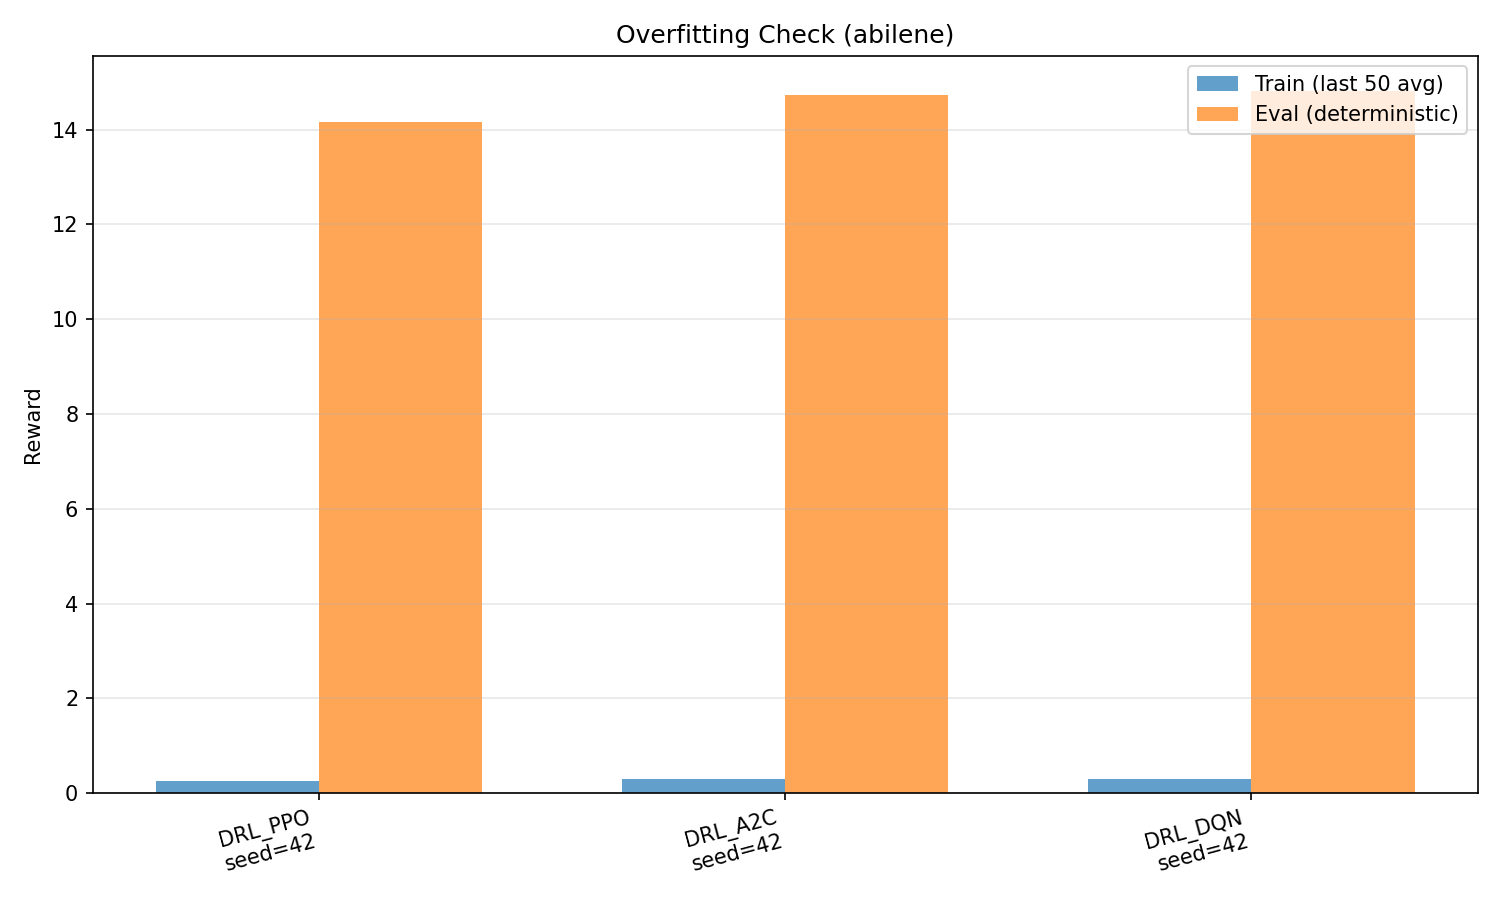
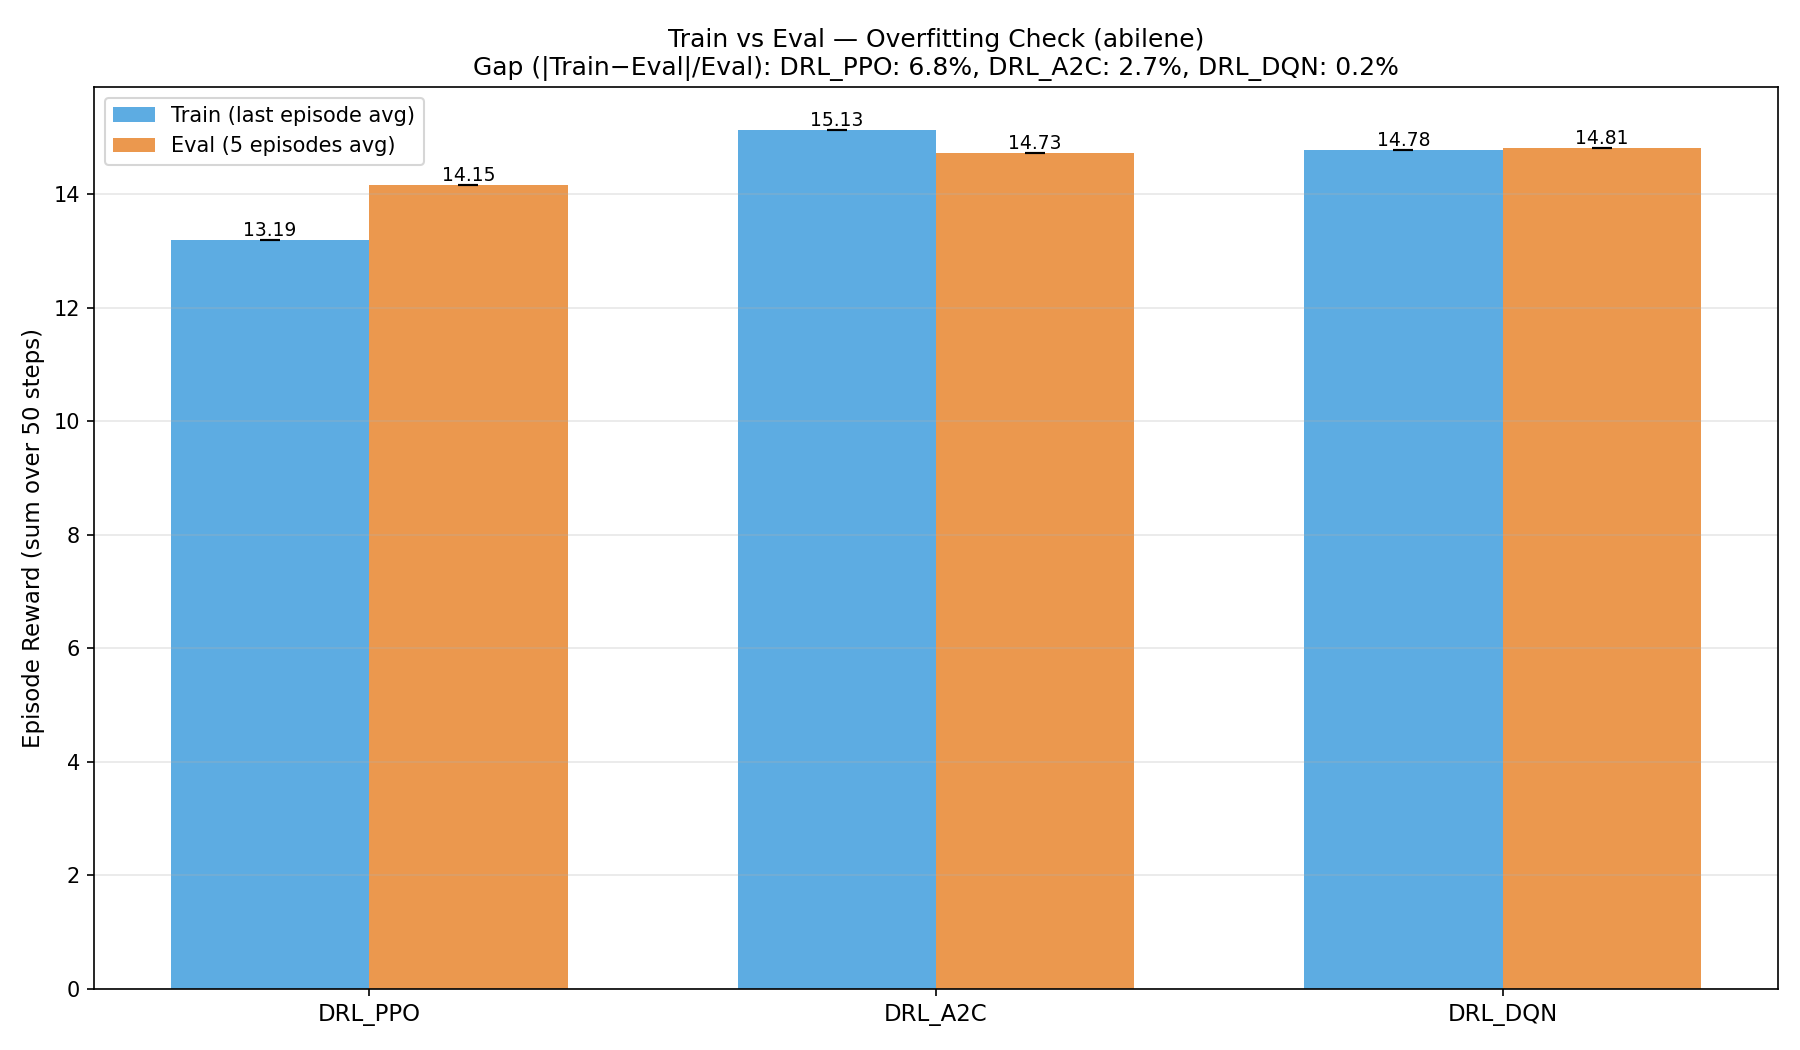
fix(poc-v2): improve plot readability + fix empty training curves
- Root cause: plot_all passed 'topology' (string) but plot_training_curves expected list
- Fixed: isinstance check + wrap in [topology]
- Improved: rolling window 500 (was 50), ±1σ shading, K-format X-axis
- Improved: overfitting check now uses episode-sum (rolling 50) matching eval scale
- Added: gap percentage annotation on overfitting chart

Result: 6 readable plots (was 3 empty + 3 noisy)

diff --git a/experiments/poc_v2_dualstream/src/evaluation/plot_utils.py b/experiments/poc_v2_dualstream/src/evaluation/plot_utils.py
@@ -1,16 +1,38 @@
-"""رسم نمودارهای مقایسهای — نسخه مقاوم"""
+"""رسم نمودارهای مقایسهای — نسخه ۲ (خوانا و تحلیلی)"""
 
 import os
 import json
 import numpy as np
 import pandas as pd
 import matplotlib.pyplot as plt
+from matplotlib.ticker import FuncFormatter
 
+
+# ============================================================
+# ابزارهای کمکی
+# ============================================================
+
+def _rolling_mean_std(vals, window):
+    """میانگین و انحراف معیار متحرک با پنجره"""
+    if len(vals) < window:
+        window = max(1, len(vals) // 5)
+    mean = pd.Series(vals).rolling(window, min_periods=1).mean().values
+    std = pd.Series(vals).rolling(window, min_periods=1).std().fillna(0).values
+    return mean, std
+
+
+def _format_k(x, pos):
+    """فرمت محور X به K"""
+    return f"{int(x/1000)}K" if x >= 1000 else f"{int(x)}"
+
+
+# ============================================================
+# نمودار ۱: مقایسه میلهای (بدون تغییر)
+# ============================================================
 
 def plot_comparison_bar(summary_df, output_dir, metric='mean_reward'):
-    """نمودار میلهای مقایسه میانگینها"""
     if metric not in summary_df.columns:
-        print(f"[WARN] Metric {metric} not found in summary")
+        print(f"[WARN] Metric {metric} not found")
         return
     fig, ax = plt.subplots(figsize=(10, 6))
     groups = summary_df.groupby(['experiment'])[metric].agg(['mean', 'std']).reset_index()
@@ -30,76 +52,96 @@ def plot_comparison_bar(summary_df, output_dir, metric='mean_reward'):
     print(f"[PLOT] Saved {save_path}")
 
 
+# ============================================================
+# نمودار ۲: منحنی آموزش (نسخه بهبودیافته)
+# ============================================================
+
 def plot_training_curves(output_dir, experiments, topologies, seeds,
-                          metric='reward', window=50):
+                          metric='reward', window=500):
     """
-    رسم منحنیهای آموزش.
-    
-    ✅ FIX: if topologies is a string, wrap in list.
+    رسم منحنیهای آموزش با:
+    - میانگین متحرک (پنجره ۵۰۰ گام)
+    - نوار انحراف معیار
+    - نشانگر نقطه همگرایی (۹۰٪ پاداش نهایی)
     """
-    # ✅ اگر رشته بود، به لیست تبدیل کن
     if isinstance(topologies, str):
         topologies = [topologies]
     
-    fig, axes = plt.subplots(1, len(topologies), figsize=(6*len(topologies), 5),
+    fig, axes = plt.subplots(1, len(topologies), figsize=(8*len(topologies), 6),
                               squeeze=False)
     
     for ti, topo in enumerate(topologies):
         ax = axes[0][ti]
-        has_data = False  # ✅ این خط حیاتی است
+        has_data = False
         
         for exp in experiments:
             all_curves = []
             for seed in seeds:
-                # ✅ مسیر: output_dir/EXP_NAME_TOPO_seedSEED/logs/training_metrics.csv
                 run_dir = os.path.join(output_dir, f"{exp.name}_{topo}_seed{seed}")
                 csv_path = os.path.join(run_dir, "logs", "training_metrics.csv")
-                
-                # ✅ Debug print برای شناسایی مسیر
                 if not os.path.exists(csv_path):
-                    print(f"[DEBUG] CSV not found: {csv_path}")
                     continue
-                
                 try:
                     df = pd.read_csv(csv_path)
-                except Exception as e:
-                    print(f"[DEBUG] Failed to read {csv_path}: {e}")
+                except Exception:
                     continue
-                
                 if metric not in df.columns:
-                    print(f"[DEBUG] Column '{metric}' not in {csv_path}. Columns: {list(df.columns)}")
                     continue
-                
                 vals = df[metric].dropna().values
                 if len(vals) == 0:
                     continue
-                
-                # پنجره داینامیک
-                w = min(window, max(1, len(vals) // 5))
-                if w > 1:
-                    vals = np.convolve(vals, np.ones(w)/w, mode='valid')
                 all_curves.append(vals)
             
             if all_curves:
                 has_data = True
                 min_len = min(len(c) for c in all_curves)
                 curves = np.array([c[:min_len] for c in all_curves])
-                mean = curves.mean(axis=0)
-                std = curves.std(axis=0)
-                x = np.arange(len(mean))
-                ax.plot(x, mean, label=exp.name, linewidth=2)
-                ax.fill_between(x, mean - std, mean + std, alpha=0.2)
+                
+                # میانگین و std روی Seedها
+                mean_across_seeds = curves.mean(axis=0)
+                std_across_seeds = curves.std(axis=0)
+                
+                # میانگین متحرک برای خوانایی
+                smoothed_mean, smoothed_std = _rolling_mean_std(mean_across_seeds, window)
+                x = np.arange(len(smoothed_mean))
+                
+                # نمودار اصلی
+                ax.plot(x, smoothed_mean, label=exp.name, linewidth=2.5)
+                ax.fill_between(x, 
+                                smoothed_mean - smoothed_std,
+                                smoothed_mean + smoothed_std,
+                                alpha=0.2)
+                
+                # نشانگر نقطهی همگرایی (۹۰٪ پاداش نهایی)
+                final_val = smoothed_mean[-1]
+                target = 0.9 * final_val
+                if metric == 'violations':
+                    target = 1.1 * final_val  # برای violations، کاهش بهتر است
+                idx = np.where(smoothed_mean <= target)[0] if metric == 'violations' \
+                      else np.where(smoothed_mean >= target)[0]
+                if len(idx) > 0:
+                    conv_step = idx[0]
+                    ax.axvline(conv_step, linestyle=':', alpha=0.4, 
+                               color=ax.lines[-1].get_color())
         
         if has_data:
-            ax.legend()
+            ax.legend(loc='best', fontsize=10)
         else:
-            ax.text(0.5, 0.5, "No training data\n(check CSV paths in logs)",
+            ax.text(0.5, 0.5, "No training data",
                     ha='center', va='center', transform=ax.transAxes, fontsize=12)
         
-        ax.set_xlabel("Training Step")
-        ax.set_ylabel(metric)
-        ax.set_title(f"Training Curves ({metric}) - {topo}")
+        ax.set_xlabel("Training Step", fontsize=11)
+        ax.set_ylabel(metric.capitalize(), fontsize=11)
+        ax.set_title(f"{metric.capitalize()} Curves — {topo}", fontsize=13)
+        ax.xaxis.set_major_formatter(FuncFormatter(_format_k))
         ax.grid(True, alpha=0.3)
+        
+        # توضیح اضافه
+        if has_data:
+            ax.text(0.02, 0.98, 
+                    f"Window: {window}\nShading: ±1σ",
+                    transform=ax.transAxes, va='top', fontsize=9,
+                    bbox=dict(boxstyle='round', facecolor='white', alpha=0.7))
     
     plt.tight_layout()
     save_path = os.path.join(output_dir, f"training_curves_{metric}.png")
@@ -108,57 +150,102 @@ def plot_training_curves(output_dir, experiments, topologies, seeds,
     print(f"[PLOT] Saved {save_path}")
 
 
+# ============================================================
+# نمودار ۳: Overfitting Check (نسخه کاملاً بازنویسیشده)
+# ============================================================
+
 def plot_overfitting_check(output_dir, experiments, topology, seeds, plots_dir):
-    """بررسی Overfitting: مقایسه reward آموزش و ارزیابی"""
+    """
+    بررسی Overfitting با مقیاس یکسان:
+    - Train: میانگین مجموع پاداش ۵۰ گام (rolling 50)
+    - Eval: میانگین مجموع پاداش ۵ اپیزود
+    """
     if isinstance(topology, str):
         topology = [topology]
+    topo = topology[0]
     
-    fig, ax = plt.subplots(figsize=(10, 6))
+    fig, ax = plt.subplots(figsize=(12, 7))
     
+    exp_labels = []
     train_means = []
+    train_stds = []
     eval_means = []
-    labels = []
+    eval_stds = []
     
     for exp in experiments:
+        train_per_seed = []
+        eval_per_seed = []
+        
         for seed in seeds:
-            run_dir = os.path.join(output_dir, f"{exp.name}_{topology[0]}_seed{seed}")
+            run_dir = os.path.join(output_dir, f"{exp.name}_{topo}_seed{seed}")
             csv_path = os.path.join(run_dir, "logs", "training_metrics.csv")
             json_path = os.path.join(run_dir, "logs", "eval_results.json")
             
-            if not os.path.exists(csv_path) or not os.path.exists(json_path):
-                print(f"[DEBUG] Missing files for {exp.name} seed {seed}")
+            if not os.path.exists(csv_path):
                 continue
             
             try:
                 df = pd.read_csv(csv_path)
-                with open(json_path) as f:
-                    eval_res = json.load(f)
+                # ✅ تبدیل پاداش هر گام به "مجموع ۵۰ گام" (یک اپیزود)
+                if len(df) >= 50:
+                    # rolling sum با پنجره ۵۰ (طول اپیزود)
+                    rolling_sum = df['reward'].rolling(50, min_periods=1).sum()
+                    train_mean_last = rolling_sum.iloc[-1]  # آخرین اپیزود
+                    train_per_seed.append(train_mean_last)
                 
-                # میانگین ۱۰۰ گام آخر آموزش
-                if len(df) > 0:
-                    train_mean = df['reward'].rolling(50, min_periods=1).mean().iloc[-1]
-                    train_means.append(train_mean)
-                    eval_means.append(eval_res['mean_reward'])
-                    labels.append(f"{exp.name}\nseed={seed}")
+                # Eval از json
+                if os.path.exists(json_path):
+                    with open(json_path) as f:
+                        eval_res = json.load(f)
+                    eval_per_seed.append(eval_res['mean_reward'])
             except Exception as e:
-                print(f"[DEBUG] Failed to process {run_dir}: {e}")
+                print(f"[DEBUG] {run_dir}: {e}")
                 continue
+        
+        if train_per_seed and eval_per_seed:
+            exp_labels.append(exp.name)
+            train_means.append(np.mean(train_per_seed))
+            train_stds.append(np.std(train_per_seed))
+            eval_means.append(np.mean(eval_per_seed))
+            eval_stds.append(np.std(eval_per_seed))
     
-    if not train_means:
-        ax.text(0.5, 0.5, "No overfitting data available",
+    if not exp_labels:
+        ax.text(0.5, 0.5, "No overfitting data",
                 ha='center', va='center', transform=ax.transAxes, fontsize=14)
     else:
-        x = np.arange(len(labels))
+        x = np.arange(len(exp_labels))
         width = 0.35
-        ax.bar(x - width/2, train_means, width, label='Train (last 50 avg)', alpha=0.7)
-        ax.bar(x + width/2, eval_means, width, label='Eval (deterministic)', alpha=0.7)
+        
+        bars1 = ax.bar(x - width/2, train_means, width, yerr=train_stds,
+                       capsize=5, label='Train (last episode avg)',
+                       color='#3498db', alpha=0.8)
+        bars2 = ax.bar(x + width/2, eval_means, width, yerr=eval_stds,
+                       capsize=5, label='Eval (5 episodes avg)',
+                       color='#e67e22', alpha=0.8)
+        
+        # نمایش اعداد روی میلهها
+        for bar in bars1:
+            h = bar.get_height()
+            ax.text(bar.get_x() + bar.get_width()/2, h,
+                    f'{h:.2f}', ha='center', va='bottom', fontsize=9)
+        for bar in bars2:
+            h = bar.get_height()
+            ax.text(bar.get_x() + bar.get_width()/2, h,
+                    f'{h:.2f}', ha='center', va='bottom', fontsize=9)
+        
+        # تحلیل فاصله (Gap)
+        gaps = [abs(t - e) / max(abs(e), 1) * 100 for t, e in zip(train_means, eval_means)]
+        gap_str = ", ".join([f"{exp}: {gap:.1f}%" 
+                             for exp, gap in zip(exp_labels, gaps)])
+        
         ax.set_xticks(x)
-        ax.set_xticklabels(labels, rotation=15, ha='right')
-        ax.set_ylabel("Reward")
-        ax.legend()
+        ax.set_xticklabels(exp_labels, fontsize=11)
+        ax.set_ylabel("Episode Reward (sum over 50 steps)", fontsize=11)
+        ax.set_title(f"Train vs Eval — Overfitting Check ({topo})\n"
+                     f"Gap (|Train−Eval|/Eval): {gap_str}", fontsize=12)
+        ax.legend(loc='best', fontsize=10)
+        ax.grid(True, alpha=0.3, axis='y')
     
-    ax.set_title(f"Overfitting Check ({topology[0]})")
-    ax.grid(True, alpha=0.3, axis='y')
     plt.tight_layout()
     save_path = os.path.join(plots_dir, "overfitting_check.png")
     plt.savefig(save_path, dpi=150)
@@ -166,24 +253,23 @@ def plot_overfitting_check(output_dir, experiments, topology, seeds, plots_dir):
     print(f"[PLOT] Saved {save_path}")
 
 
+# ============================================================
+# تابع اصلی
+# ============================================================
+
 def plot_all(summary_df, output_dir, experiments, topology, seeds):
-    """
-    فراخوانی همه نمودارها.
-    
-    ✅ FIX: همه توابع با لیست topology صدا زده میشوند.
-    """
     plots_dir = os.path.join(output_dir, "plots")
     os.makedirs(plots_dir, exist_ok=True)
     
-    # نمودارهای میلهای
+    # ۱. میلهایها
     plot_comparison_bar(summary_df, plots_dir, 'mean_reward')
     plot_comparison_bar(summary_df, plots_dir, 'mean_violations')
     plot_comparison_bar(summary_df, plots_dir, 'mean_lambda_min')
     
-    # ✅ نمودارهای منحنی — با [topology] که لیست است
+    # ۲. منحنیهای آموزش
     topologies_list = [topology] if isinstance(topology, str) else topology
     for metric in ['reward', 'violations']:
         plot_training_curves(output_dir, experiments, topologies_list, seeds, metric=metric)
     
-    # Overfitting
+    # ۳. Overfitting
     plot_overfitting_check(output_dir, experiments, topology, seeds, plots_dir)
